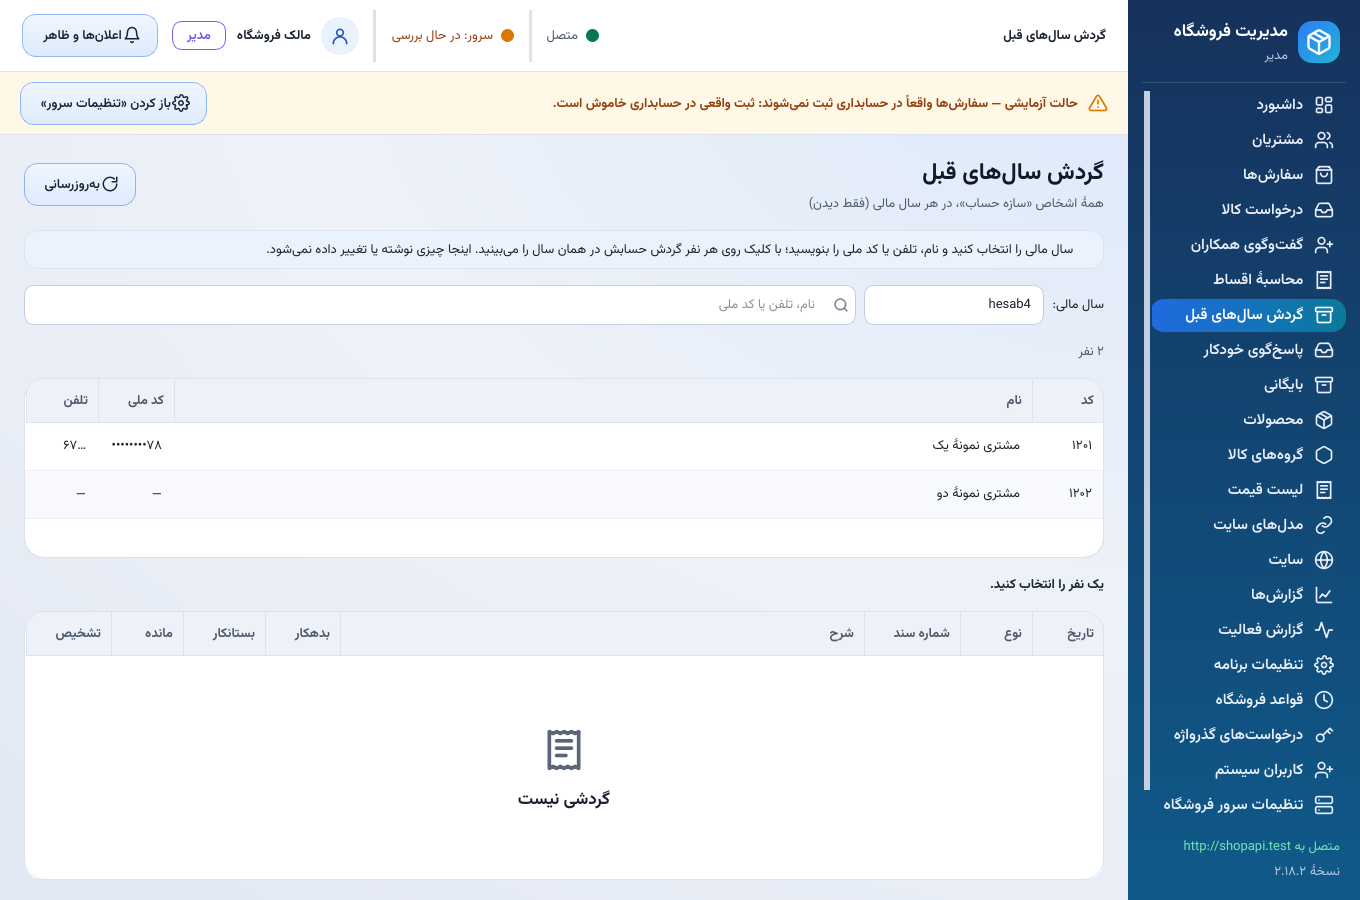
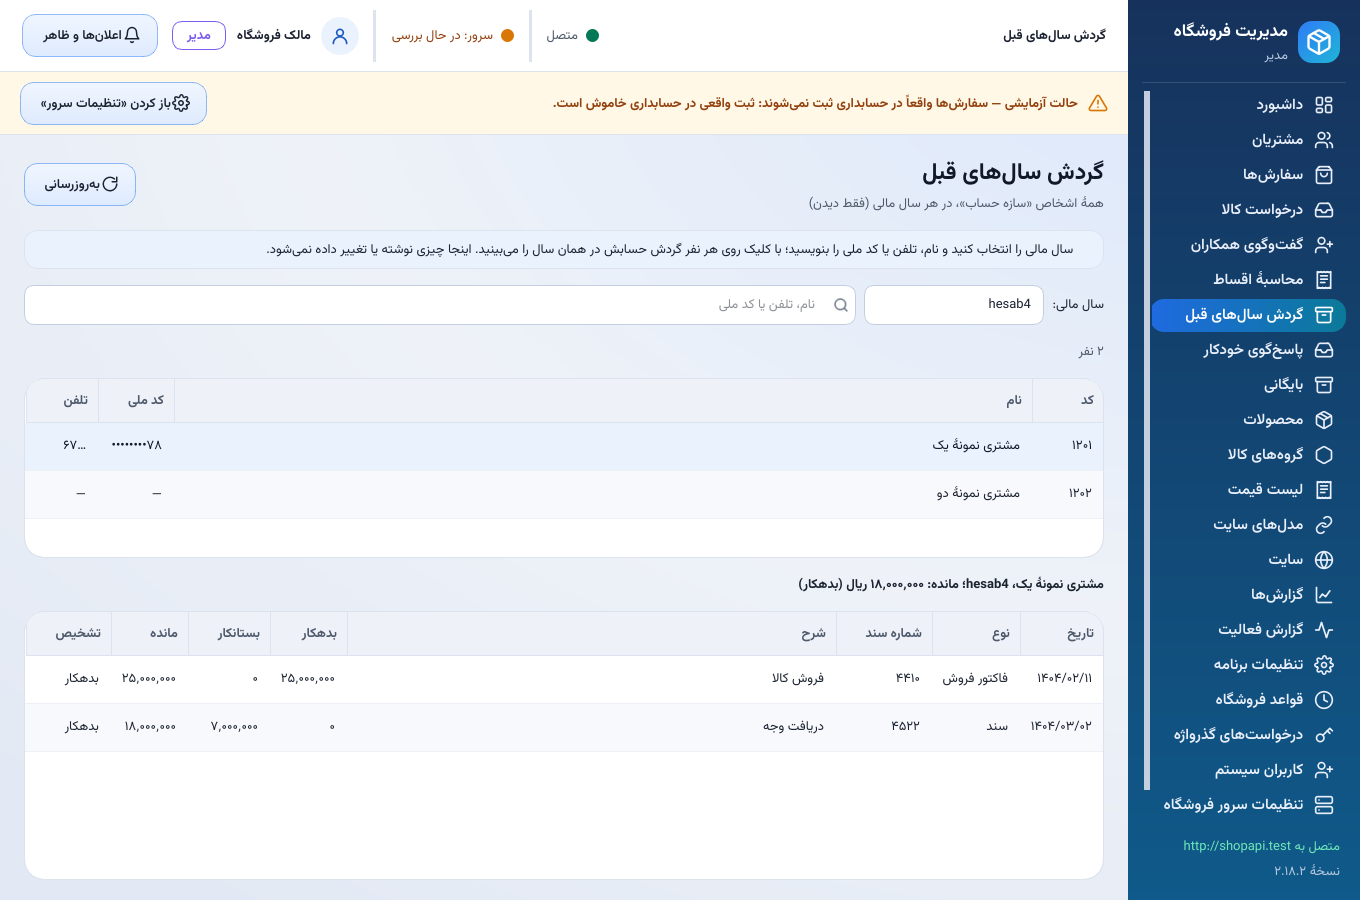
v2.18.2: choosing a person on the ledger page: test, screenshot

diff --git a/shopadmin/tests/test_v2182.py b/shopadmin/tests/test_v2182.py
@@ -156,3 +156,19 @@ def test_the_ledger_has_its_own_tick_and_only_a_view():
     assert "ledger.view" not in perms.SALES_SERVER_PERMISSIONS
     assert perms.LEDGER_VIEW in perms.client_permissions({"ledger.view"})
     assert any(item[0] == "ledger" for item in NAV_ITEMS)
+
+
+def test_choosing_a_person_reads_their_turnover(ui_context, admin_qapp, monkeypatch):
+    from app.ui.pages import ledger
+
+    context = make_context_with_role(ui_context, ROLE_SUPER_ADMIN)
+    api = _LedgerApi()
+    monkeypatch.setattr(context, "api", api, raising=False)
+    monkeypatch.setattr(ledger, "run_async", lambda call, on_success, on_error=None: on_success(call()))
+    page = ledger.LedgerPage(context)
+    page.load()
+    assert page.person_table.rowCount() == 1
+    page.person_table.select_row(0)
+    assert api.statements == [("hesab4", 7)]
+    assert page.row_table.rowCount() == 1
+    page.close()

diff --git a/shopadmin/scripts/render_2182.py b/shopadmin/scripts/render_2182.py
@@ -71,7 +71,7 @@ def main() -> int:
         for _ in range(40):
             time.sleep(0.05)
             screens.settle(app, 5)
-        ledger.person_table.selectRow(0)
+        ledger.person_table.select_row(0)
         for _ in range(40):
             time.sleep(0.05)
             screens.settle(app, 5)
